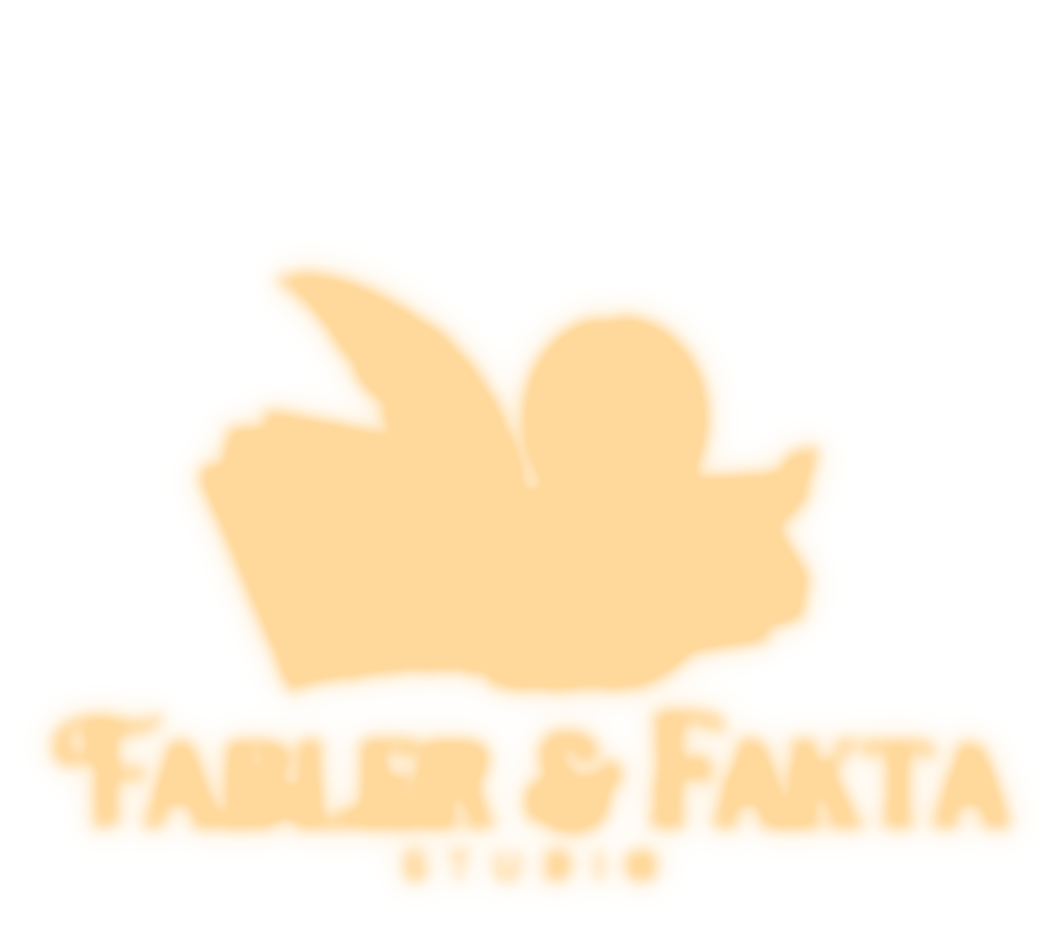
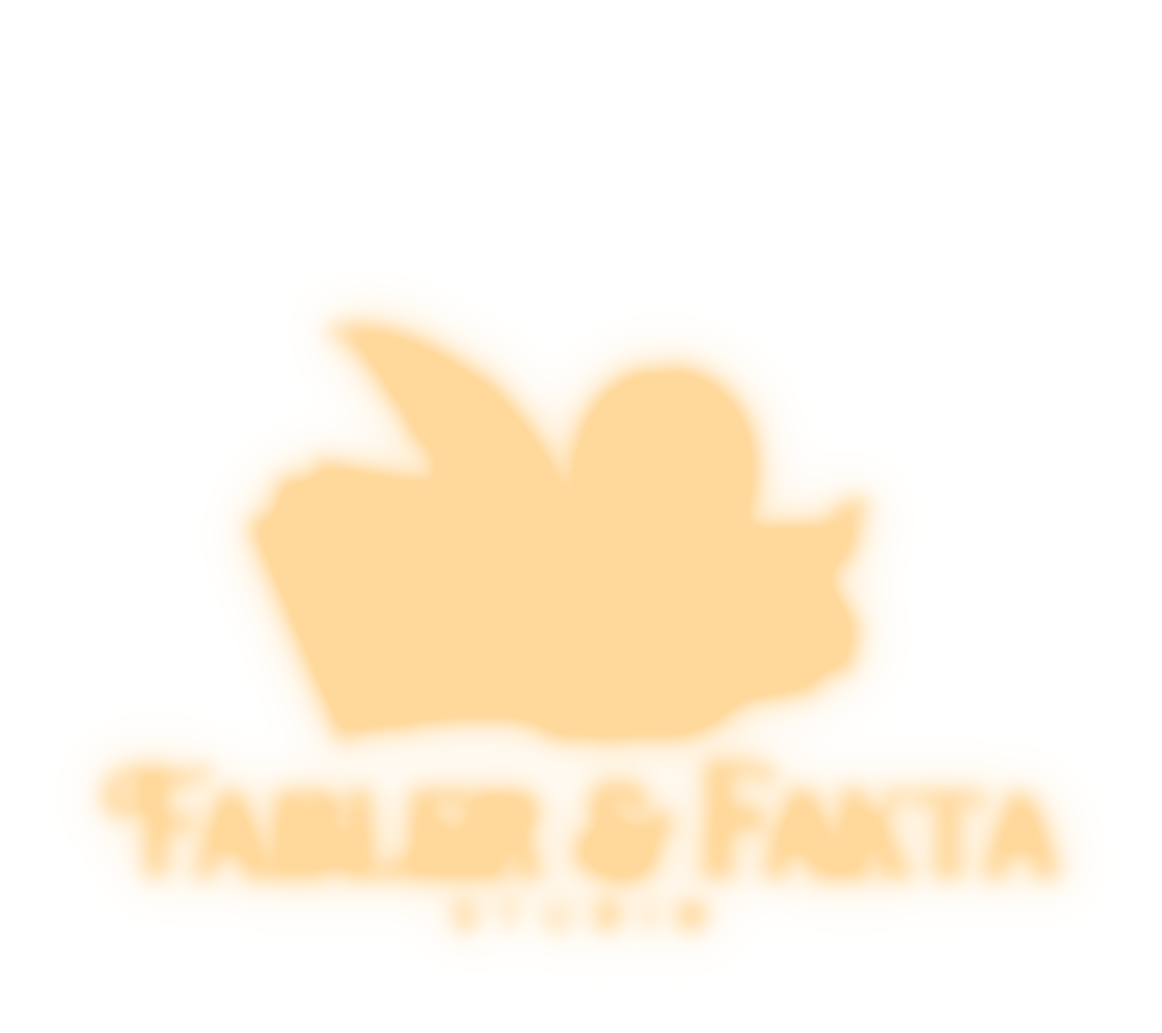
Bredare sken runt bilden vid tryck
Claude-Session: https://claude.ai/code/session_01KKpdg1kibzxrmRUHzSLNaJ

diff --git a/index.html b/index.html
@@ -15,7 +15,7 @@
   <link rel="apple-touch-icon" href="assets/img/apple-touch-icon.png">
   <link rel="preload" as="image" href="assets/img/hero-mobil-720.jpg" media="(max-aspect-ratio: 3/4)">
   <link rel="preload" as="image" href="assets/img/hero-1920.jpg?v=3" media="(min-aspect-ratio: 3/4)">
-  <link rel="stylesheet" href="assets/style.css?v=50">
+  <link rel="stylesheet" href="assets/style.css?v=51">
 </head>
 <body class="app-shell">
 <div class="scroller">
@@ -33,8 +33,8 @@
       </div>
       <div class="float"><div class="tilt">
         <picture class="glow-pic">
-          <source type="image/webp" srcset="assets/img/mobil-glow.webp?v=3">
-          <img class="layer-glow" src="assets/img/mobil-glow.png?v=3" alt="">
+          <source type="image/webp" srcset="assets/img/mobil-glow.webp?v=4">
+          <img class="layer-glow" src="assets/img/mobil-glow.png?v=4" alt="">
         </picture>
         <picture>
           <source type="image/webp" srcset="assets/img/mobil-logo.webp?v=7">

diff --git a/assets/style.css b/assets/style.css
@@ -433,3 +433,6 @@ html, body, a, button, .hero { -webkit-tap-highlight-color: transparent; }
   background: linear-gradient(160deg, rgba(255,255,255,.09) 0%, rgba(255,255,255,0) 35%),
               rgba(18,12,36,.1);
 }
+
+/* bredare sken runt bilden vid tryck */
+.tilt > .glow-pic { left: -10.395%; top: -12.005%; width: 120.790% !important; }
